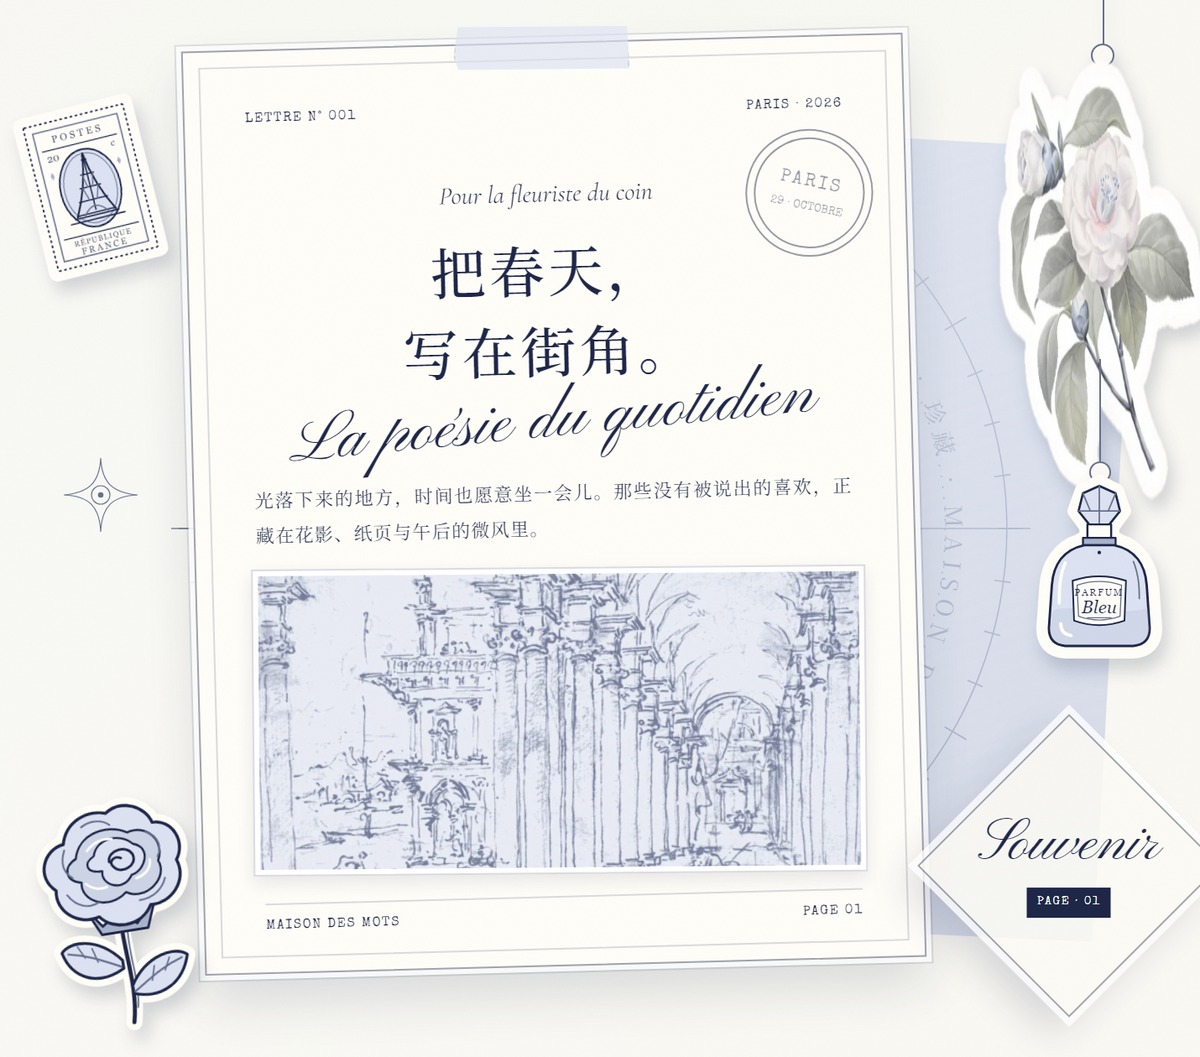
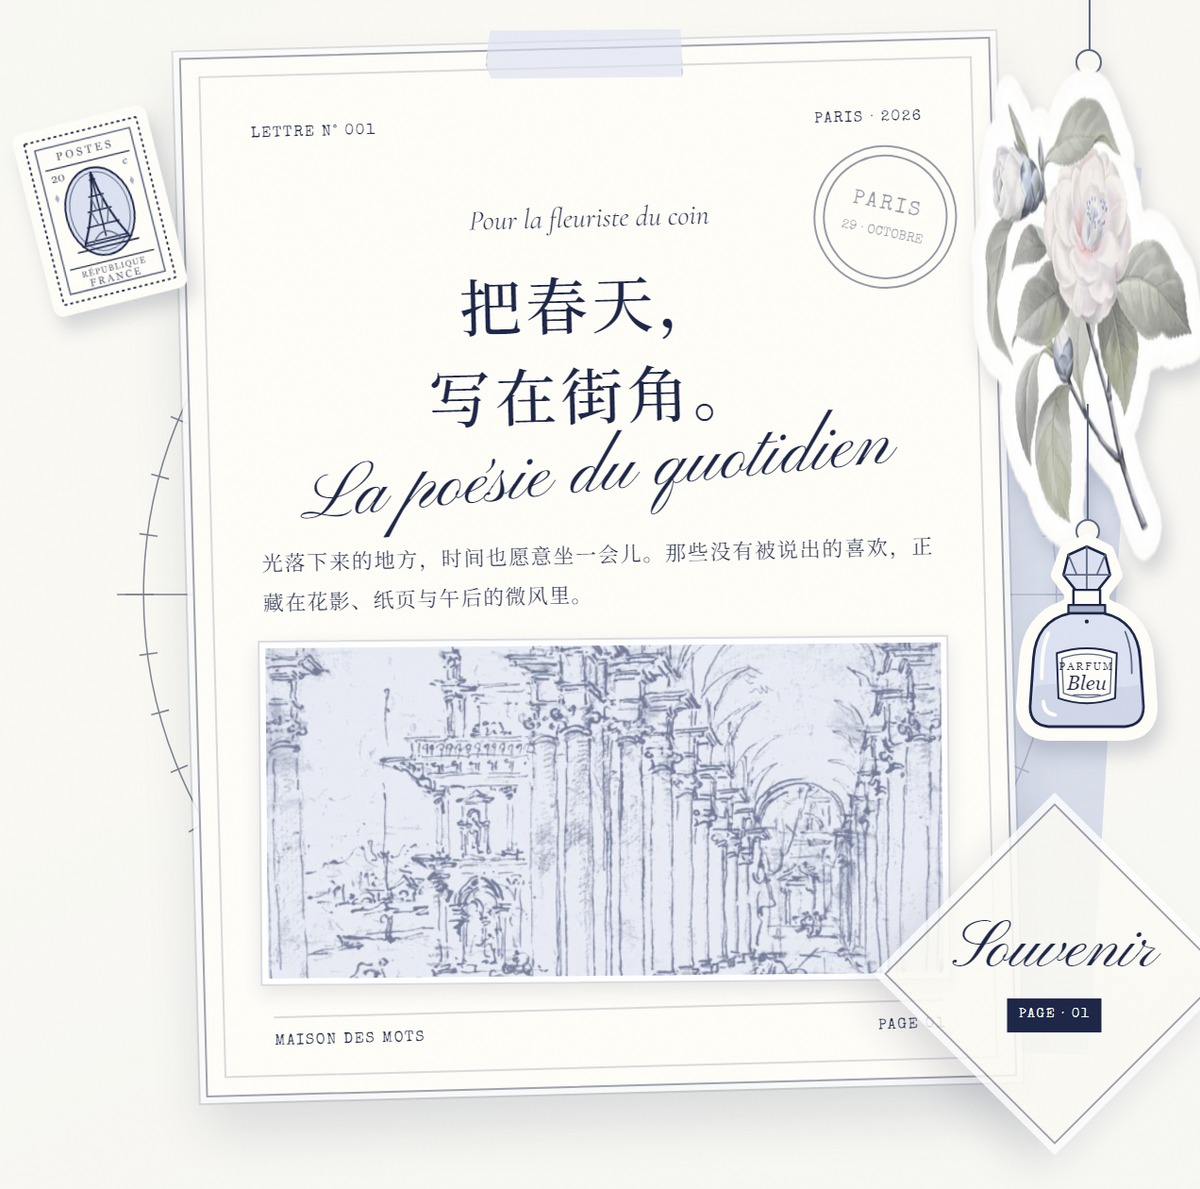
Refresh skill for four-page book, ribbon menu, page turn and quill writing

diff --git a/SKILL.md b/SKILL.md
@@ -29,8 +29,8 @@ license: MIT
 ```css
 :root {
   --ink: #1e2748;          /* 墨蓝，所有文字与线 */
-  --ink-soft: #4f5c7c;     /* 次级正文 */
-  --fog: #66718f;          /* 注释、编号 */
+  --ink-soft: #46536f;     /* 次级正文 */
+  --fog: #5c6884;          /* 注释、编号 */
   --fog-light: #a9b3cc;    /* 更弱的装饰线 */
   --silver: #bfc8e0;       /* 银蓝，阴影/描边 */
   --silver-light: #dce2f1; /* 雾蓝纸 */
@@ -46,9 +46,13 @@ license: MIT
 **字体**（Google Fonts，全部 SIL OFL）：
 
 - 标题/英文衬线：`Cormorant Garamond` 400–600 + italic
-- 中文：`Noto Serif SC` 400–700
+- 中文标题：`Noto Serif SC` 400–700
+- 信笺正文 / 灵感卡片：`LXGW WenKai`（霞鹜文楷）500 / 700
 - 法文花体：`Pinyon Script`（一句即可，别超过 2 处）
 - 档案/编号/注脚：`Special Elite`（替代 Courier 的更旧打字机感）
+
+> **分层原则**：WenKai 只给“信/手写”的内容（信笺正文、示例纸、宣言），
+> 表单、计数、状态、操作标签继续用清晰的宋体；不要让整个界面都变软。
 
 > 中国大陆网络下 Google Fonts 经常不可用。上线前把字体本地化：拉丁字体直接用 woff2，
 > 中文用 `fontTools.subset` 按页面实际用字做子集（本项目 353 个汉字，变量字体约 206KB），
@@ -64,24 +68,29 @@ license: MIT
 ```
 
 **比例**：标题字重 500、行高 1.24–1.45、字距 -0.055em（中文大字）到 +0.06em（正文）。
-正文 13–15px / 行高 2；微型注脚不低于 9px，且在浅底上保持 `--ink-soft`。
+正文 14–16px / 行高 1.9–2；表单与状态文字不低于 11–13px；微型注脚不低于 9px，且在浅底上保持 `--ink-soft`。
 
 ## 3. 页面骨架
 
 ```
-book-shell（最大 1680，外边距 22）
-└─ inner-frame（内缩 15，1px hairline 边框）
-   ├─ 四角 SVG 花角（aria-hidden，绝对定位）
-   ├─ masthead（3 列：品牌 / 导航 / 版次）
-   ├─ main
-   │  ├─ hero（左侧 92px 吊牌栏 + 文案 + 430px 信笺拼贴）
-   │  ├─ hero-ledger（一行法文手写体 + 两端打字机小字）
-   │  ├─ studio（左表单 / 右画布）
-   │  ├─ inspiration（左侧标题 + 右侧档案列表）
-   │  └─ about（居中一段话 + 回到创作台）
-   └─ footer（3 段小字，中间品牌）
+app
+├─ page-texture（全屏 grain，2%）
+├─ book-shell（最大 1680，外边距 22）
+│  └─ inner-frame（内缩 15，1px hairline 边框）
+│     ├─ 四角 SVG 花角（aria-hidden，绝对定位）
+│     ├─ masthead（品牌 / 当前章节 / 版次）
+│     ├─ menu-ribbons（右缘 4 枚书签；≤1080 固定底部 tab）
+│     ├─ main.page-stage
+│     │  └─ .page-view[hidden] × 4（懒挂载，保留状态）
+│     │     ├─ 01 couverture：hero + hero-ledger
+│     │     ├─ 02 atelier：studio（表单 + 纸 + 贴纸架）
+│     │     ├─ 03 inspiration：3 张示例纸 + 贴纸样本册
+│     │     └─ 04 maison：居中的“纸房间”宣言
+│     └─ footer（3 段小字，中间品牌）
+└─ PageTurn（fixed，全屏纸页翻转，z-index 200）
 ```
 
+- 路由用 hash（`#/atelier`）；切页时先设新页、滚动到顶部，再让纸页翻转，转完触发新页入场。
 - `.book-shell` 用 `outline` 做内侧白边、`box-shadow` 做漂浮；`overflow: clip` 防止装饰溢出。
 - 背景用 3 层低对比 radial-gradient 模拟云石晕染（银蓝 + 一点藕粉），不要用图片。
 - 纸张颗粒用一个全屏 `<svg>` + `feTurbulence`，透明度压到 2% 左右，`mix-blend-mode: multiply`。
@@ -98,7 +107,10 @@ book-shell（最大 1680，外边距 22）
 1. 档案表盘（540px 圆，虚线环 + 48 根刻度 + `textPath` 环形法文，opacity .55）
 2. 雾蓝纸（69% × 78%，斜切 clip-path，rotate 5°）
 3. 奶油信笺（`min(68%, 430px)`，min-height 550，内缩 9px 的 hairline，rotate -1.5°）
-4. 邮票、玫瑰、山茶花吊牌、挂着的香水瓶、Souvenir 菱形卡、星芒
+4. 邮票、山茶花吊牌、挂着的香水瓶、Souvenir 菱形卡
+
+> 桌面首屏大约 10 个装饰件；超过这个数就会满。删掉玫瑰与星芒两件之后，标题和信笺才重新有呼吸。
+> 装饰只放在拼贴四周，不要压住正文与主按钮。
 
 信笺内部：`LETTRE N° 001 / PARIS · 2026` → 法文斜体小句 → 中文 33px 两行 → Pinyon 手写体 →
 11px 正文 → 拱廊版画（600×392，`mix-blend-mode: multiply`，opacity .82）→ 页脚。
@@ -107,75 +119,110 @@ book-shell（最大 1680，外边距 22）
 入场时 `yPercent: 115 → 0`。花体 `Les mots doux` 放在标题之后的独立一行、右对齐、rotate -6°，
 **不要**压在主标题上——中文被花体穿过会直接不可读。
 
-## 5. 创作台配方
+## 5. 书签菜单与翻页
+
+**不要做传统横条导航。** 四个目的地对应右缘四枚竖排书签：
+
+- 位置：内框右侧 13px、顶部 152px；宽 42、高 162，底部斜切（`clip-path`），顶部一枚圆孔。
+- 文案：中文主标签 12px，编号 9px、法文 8px 退后；active 向左抽出 15px 并换成墨色，hover 抽出 9px。
+- 屏幕高度 < 940px 时隐藏法文，书签高 118，保证四枚都在视口内；≤1080 改成固定底部纸质 tab 条（高 50，安全区之上，页面底部留 78px）。
+- `aria-current="page"`、`aria-label` 带编号与中法文；hover 只是位移，不叠额外动效。
+
+**翻页转场**（比“开门”更贴合纸的语义）：
+
+- 全屏纸页，`perspective: 2200px`；前进时 `transform-origin: left center`，后退时右侧装订边。
+- `rotateY` 0 → ±178°，650–820ms，`power2.inOut`；背面是 `rotateY(180deg)` 的下一章，纸背略暗。
+- 随角度变化的 `.turn-shade` 只做一层阴影，**不要把全屏压灰**；装订边留 1–3px 纸厚，边缘用 inset shadow。
+- 转场结束后新页才开始 mask/stagger 入场；`prefers-reduced-motion` 直接切页，不渲染遮罩。
+- 用 hash 路由 + 懒挂载页面；`overflow` 的页面不要在创作台里再套一层滚动。
+
+## 6. 创作台与笔写作
 
 - 左表单：奶白叠纸 + 7px 藕粉纸胶带，字段用 `01 / 02` 档案编号，textarea 带 30px 横线背景。
-- 右画布：`min-height 610`，四角 L 形边框，中央信笺 `width 64%`，`min-height 470`。
-- 生成时：信笺先 `opacity 0 / y 24 / rotation -4` 退场，换文案后再从上方落下；
-  正文用 `{value: 0 → length}` 计数字典逐字写入，`onComplete` 解锁按钮。
+- 右画布：`min-height 570`，四角 L 形边框，中央信笺 `width 64%`，`min-height 440`。
+- **双模式**：
+  - `用灵感起稿`：主题 + 语气 → 模板补全成一封信；
+  - `写自己的`：标题可选、正文必填 → 原样上纸，**绝不追加任何模板句子**。
+  - 「编辑这段」把当前纸面文字带回编辑区；空正文在字段附近报错，不用 toast。
+- **笔写作**（替代打字机）：
+  - 正文按 2–3 个 token 分组，标点/换行作为停顿；组内 opacity + 轻微 blur 显影，组间约 0.17s。
+  - 羽毛笔跟随每组最后一个非空 token，笔尖落在字的基线末端，尺寸小于字高；标题不做逐字，先落标题再写正文。
+  - 写完笔淡出；提供「跳过书写」，切页/编辑时立即取消时间线；`prefers-reduced-motion` 直接显示全文。
 - 贴纸：6 类手绘线稿（统一 `1.1` 描边、墨蓝+银蓝两色），按钮 92×110，`filter: drop-shadow(3px 6px 4px …)`；
   选中态只加虚线边 + 极少量藕粉，不加粗、不换尺寸（避免 Draggable 坐标错位）。
 - 画布上的贴纸必须 `position:absolute; inset:0 auto auto 0`，Draggable 用 `x/y` 与边界 clamp；
   键盘方向键 8px、Shift 20px，Delete/Backspace 删除，焦点交给下一枚或贴纸架。
+- 贴纸初始落点放在纸面边缘，不要压住正文与签名。
 
-## 6. 动效规则
+## 7. 动效规则
 
-- 入场只做一次，顺序：吊牌栏 → 版次/编号 → 标题逐行 → 花体 → 描述/按钮 → 表盘 → 雾蓝纸 → 信笺 → 贴纸/吊牌 → Souvenir。
-- 时长 .45–1.0s，`power3.out`，错位 stagger .07–.11；不要用弹性过猛的 ease。
-- 首屏视差：`pointermove` 驱动 `gsap.quickTo`，每层深度 2.5–7.5px，入场完成后再启用；`pointerleave / pointercancel / window blur` 全部复位。
-- 禁止无限循环动画；`prefers-reduced-motion: reduce` 下取消入场、视差、循环与逐字，直接呈现终态。
-- 动效只用 transform / opacity；不要在一次入场里同时动 `top/left` 和 `x/y`。
+- **只保留有意义的动效**：页面翻页、笔写作、书签抽出、示例卡 hover、首屏叠纸入场。
+  不要持续浮尘、无限旋转的圆环、全站指针视差——装饰应该响应用户，而不是自己表演。
+- 时长：页面转场 650–820ms；入场不超过 450ms；hover 120–180ms；按钮/贴纸反馈 160–240ms。
+- 页面转场与内容入场不要同时开始：翻页结束再让新页 mask/stagger 出现；一个时刻只让一个主物件动。
+- 首屏视差只留给拼贴，`pointermove` 驱动 `gsap.quickTo`，入场完成后再启用，`pointerleave / pointercancel / window blur` 复位。
+- 所有 GSAP 时间线用 `useGSAP` 的 context 管理；切换页面或依赖变化时 `revert/kill`，避免隐藏页面继续跑时间线。
+- `prefers-reduced-motion: reduce`：不翻页、不逐字、不视差、不循环；直接显示终态，只保留很短的淡入与状态反馈。
 
-## 7. 交互与可访问性清单
+## 8. 交互与可访问性清单
 
-- [ ] 空主题：`role="alert"` 错误 + 焦点回到 textarea
-- [ ] 生成中：按钮 `aria-busy`、状态 `role="status"`，重复点击不叠加时间线
-- [ ] 复制：clipboard + 降级 textarea 方案，状态播报成功/失败
+- [ ] 菜单：`aria-current="page"`、中文主标签、键盘可操作、焦点可见；≤1080 底部 tab 不遮挡内容与安全区
+- [ ] 页面：`PageTurn` 标 `aria-hidden`；转场结束焦点回到 `main`；hash 可前进后退
+- [ ] 空主题/空正文：字段附近 `role="alert"` 错误 + 焦点回到输入框，不用 toast
+- [ ] 生成/书写中：按钮 `aria-busy`、状态 `role="status"`；**「跳过书写」**始终可用，切页/编辑时取消时间线
+- [ ] 双模式：`aria-pressed`，模式切换后立即展示对应输入；自己写**不追加**任何模板句
+- [ ] 复制：clipboard + 降级 textarea 方案，状态播报成功/失败；复制成功可有一枚短暂的墨章反馈
 - [ ] 贴纸：`aria-pressed`、序号读屏名、方向键/Delete、选中后焦点不丢
 - [ ] 8 枚上限有提示；清空/取下后焦点留在触发按钮上（**不要用 `disabled` 移除焦点**）
-- [ ] `prefers-reduced-motion` 下无动画锁死
-- [ ] 法文片段标 `lang="fr"`；装饰性 SVG `aria-hidden`
 - [ ] 触屏：画布内未选中的贴纸 `touch-action: manipulation`，选中后才 `none`，避免页面滑不动
 - [ ] 跳至主要内容链接、`main` 的 `tabIndex=-1`、44px 触控目标、`:focus-visible`
 
-## 8. 响应式断点（这是最容易做坏的地方）
+## 9. 响应式断点（这是最容易做坏的地方）
 
 | 断点 | 变化 |
 | --- | --- |
-| > 1280 | 首屏两栏；吊牌栏竖排在左 |
-| ≤ 1280 | 首屏单栏：文案块居中 max 680，拼贴宽 650；吊牌栏变成顶部横排纸签 |
-| ≤ 1080 | 创作台单栏；表单与画布上下排 |
-| ≤ 640 | 手机：书壳内缩、字号下调、贴纸架横向滚动 |
-| ≤ 480 | 隐藏版次第二行小字 |
+| > 1280 | 封面两栏；吊牌栏竖排在左；书签竖排在右 |
+| ≤ 1280 | 封面单栏：文案块居中 max 680，拼贴宽 650；吊牌栏变成顶部横排纸签 |
+| ≤ 1080 | 创作台单栏；表单与画布上下排；书签改成固定底部 tab 条 |
+| 高度 ≤ 940 | 桌面书签隐藏法文、高度收到 118，确保四枚都在视口内 |
+| ≤ 640 | 手机：书壳内缩、字号下调、贴纸架横向滚动、转场缩短到 620ms |
+| ≤ 480 | 隐藏版次第二行小字；封面的吊牌栏改为隐藏，让主按钮更早出现 |
 | ≤ 370 | 语气选项改单列 |
 
 坑位：
 
 1. **花体压中文**：不要用绝对定位让 Pinyon 横穿标题；放标题下方右对齐。
-2. **左侧吊牌栏与文案重叠**：竖排栏只在 >1280 存在；≤1280 必须回到文档流。
+2. **左侧吊牌栏与文案重叠**：竖排栏只在 >1280 存在；≤1280 必须回到文档流；≤480 直接隐藏。
 3. **窄桌面（1081–1280）两栏挤压**：视觉列最小 430px 仍可能让标题折行，直接改单栏最稳。
 4. **绝对路径素材**：`public/assets/*.webp` 在 GitHub Pages 子路径会 404；改为 `src/assets` + `import`，由 Vite 处理 base。
 5. **`touch-action: none` 死区**：只在选中贴纸上使用。
 6. **中文断行**：不要硬加 `<br>`，改字号/宽度；小屏标题 `clamp(39px, 11vw, 56px)`。
-7. **ResizeObserver 抖动**：回调内用 `requestAnimationFrame` 节流；打字动画期间不要反复推贴纸。
+7. **ResizeObserver 抖动**：回调内用 `requestAnimationFrame` 节流；页面隐藏（`clientWidth === 0`）时直接跳过，否则贴纸会被压到 0,0。
+8. **书签在矮屏被裁**：按视口高度收高度/隐藏法文，不要把书签写死 162px。
+9. **底部 tab 遮内容**：给 `.app` 留 78px 底部空间，并处理 `env(safe-area-inset-bottom)`。
+10. **自己写被追加**：自定义模式只渲染 `customBody`，不要走模板补全函数；换行用 `<br>` 或 token 换行保留。
 
-## 9. 交给 AI 的一句话提示词
+## 10. 交给 AI 的一句话提示词
 
 把本文件作为系统约束，然后说：
 
-> 用 `maison-des-mots-art-direction` 的方向，做一个「\[你的产品\]」的单页应用。
-> 保留：奶白 `#fbf9f4` + 银蓝 + 墨蓝的色板，Cormorant Garamond / Pinyon Script / Noto Serif SC / Special Elite 四种字，
-> 模切白边 + 1px 墨蓝线的纸感，左侧吊牌栏，右侧叠纸信笺，入场时间线与 reduced-motion。
-> 功能是 \[一句话功能\]。先给视觉方案，再落 React + Vite + GSAP；所有素材必须本地化。
+> 用 `maison-des-mots-art-direction` 的方向，做一个「\[你的产品\]」的四页纸册应用。
+> 保留：奶白 `#fbf9f4` + 银蓝 + 墨蓝的色板，Cormorant Garamond / Pinyon Script / Noto Serif SC / Special Elite / LXGW WenKai 五种字，
+> 模切白边 + 1px 墨蓝线的纸感，右侧书签菜单 + 纸页翻转，首屏叠纸拼贴，正文用羽毛笔逐组显影。
+> 功能是 \[一句话功能\]。先给视觉方案，再落 React + Vite + GSAP；所有素材与字体必须本地化。
 
 更省事的做法：直接让它读本仓库的 `src/styles.css`、`src/components/HeroCollage.jsx`、
-`src/components/Studio.jsx`，按同样的 token 换内容，而不是重新发明一套纸。
+`src/components/Studio.jsx`、`src/components/PageTurn.jsx`，按同样的 token 换内容，而不是重新发明一套纸。
 
-## 10. 验收
+## 11. 验收
 
 - [ ] 1440 / 1280 / 1080 / 768 / 390 / 320 无横向滚动、无遮挡、无被裁正文
+- [ ] 四个页面与右缘书签全部可达；返回/前进可用；转场结束焦点回到 main
+- [ ] 矮屏（800 高）书签不越出视口；≤1080 底部 tab 不遮内容与安全区
 - [ ] 首屏标题 2 行内可读；花体不压字；吊牌栏不盖文案
-- [ ] 生成 → 打字 → 贴纸 → 复制 → 清空全链路可用；键盘可完成
+- [ ] 自己写：标题可空、正文原样、换行保留、无任何追加；编辑这段能带回当前纸面
+- [ ] 笔写作可跳过、切页会取消、reduced-motion 直接显示全文
+- [ ] 生成 → 书写 → 贴纸 → 复制 → 清空全链路可用；键盘可完成
 - [ ] reduced-motion / forced-colors / 200% zoom 不崩
 - [ ] 部署在子路径时素材全部加载（检查 `dist/assets/*.webp` 与 `import.meta.env.BASE_URL`）
 - [ ] 字体已本地化，断网/大陆网络下页面不出外部字体请求

diff --git a/README.md b/README.md
@@ -16,23 +16,27 @@
 
 **只想快点开始**：把下面这句和 `SKILL.md` 一起丢给 AI。
 
-> 用 `maison-des-mots-art-direction` 的方向，做一个「[你的产品]」的单页应用。
-> 保留奶白 + 银蓝 + 墨蓝的色板，Cormorant Garamond / Pinyon Script / Noto Serif SC / Special Elite 四种字，
-> 模切白边 + 1px 墨蓝线的纸感，左侧吊牌栏，右侧叠纸信笺，入场时间线与 reduced-motion。
-> 功能是 [一句话功能]。先给视觉方案，再落 React + Vite + GSAP；所有素材必须本地化。
+> 用 `maison-des-mots-art-direction` 的方向，做一个「[你的产品]」的四页纸册应用。
+> 保留奶白 + 银蓝 + 墨蓝的色板，Cormorant Garamond / Pinyon Script / Noto Serif SC / Special Elite / LXGW WenKai 五种字，
+> 模切白边 + 1px 墨蓝线的纸感，右侧书签菜单 + 纸页翻转，首屏叠纸拼贴，正文用羽毛笔逐组显影。
+> 功能是 [一句话功能]。先给视觉方案，再落 React + Vite + GSAP；所有素材与字体必须本地化。
 
 ## 里面有什么
 
 - **设计 token**：完整色板、字体组合、纸的阴影公式。
-- **页面骨架**：书壳、花角、报头、首屏拼贴、创作台、灵感档案、关于。
+- **页面骨架**：书壳、花角、报头、四页内容、右缘书签菜单、懒挂载页面。
 - **组件配方**：模切信笺、纸胶带、邮戳、Souvenir 菱形卡、吊牌、六枚线稿贴纸。
-- **动效规则**：入场时间线顺序、视差、打字机、贴纸，以及 reduced-motion。
+- **转场与笔写作**：650–820ms 的纸页翻转、分组显影的羽毛笔、跳过与 reduced-motion。
+- **文案逻辑**：「用灵感起稿 / 写自己的」双模式，自己写绝不追加模板句。
+- **动效规则**：入场顺序、书签抽出、hover 反馈，以及什么时候该删动效。
 - **交互与可访问性**：焦点、触控、键盘、8 枚上限、状态播报。
-- **响应式断点**：从 1920 到 320 的完整策略，以及最容易做坏的 5 个坑。
+- **响应式断点**：从 1920 到 320、矮屏书签、底部纸质 tab。
 - **验收清单**：交付前逐条对照。
 
 ## 预览
 
 ![创作台](images/studio.jpg)
+
+![笔写作](images/pen.jpg)
 
 ![拼贴细节](images/detail.jpg)
